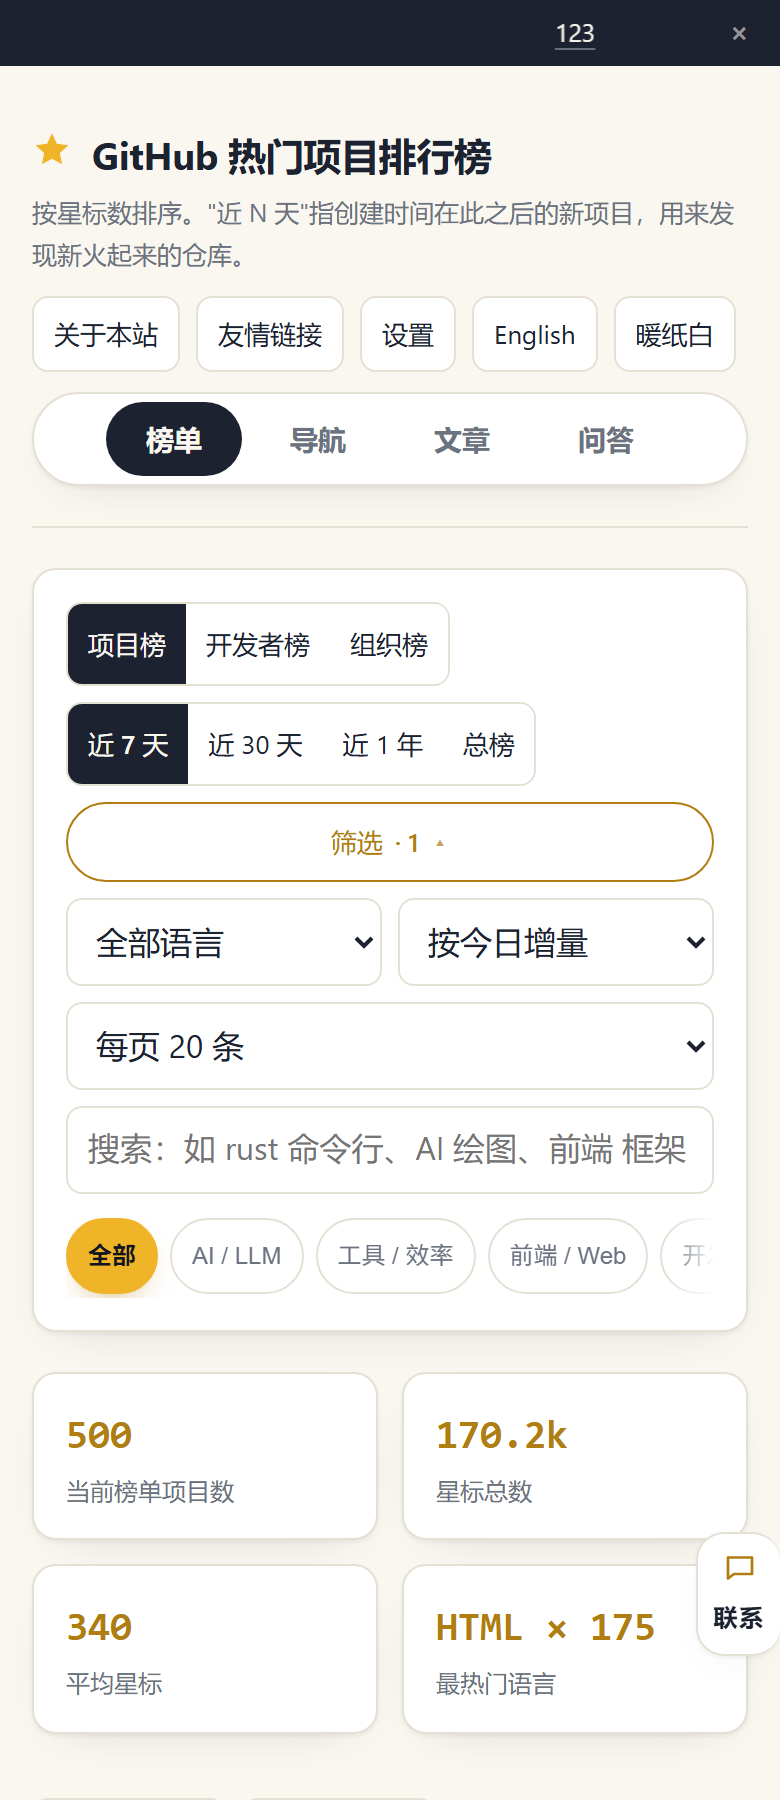
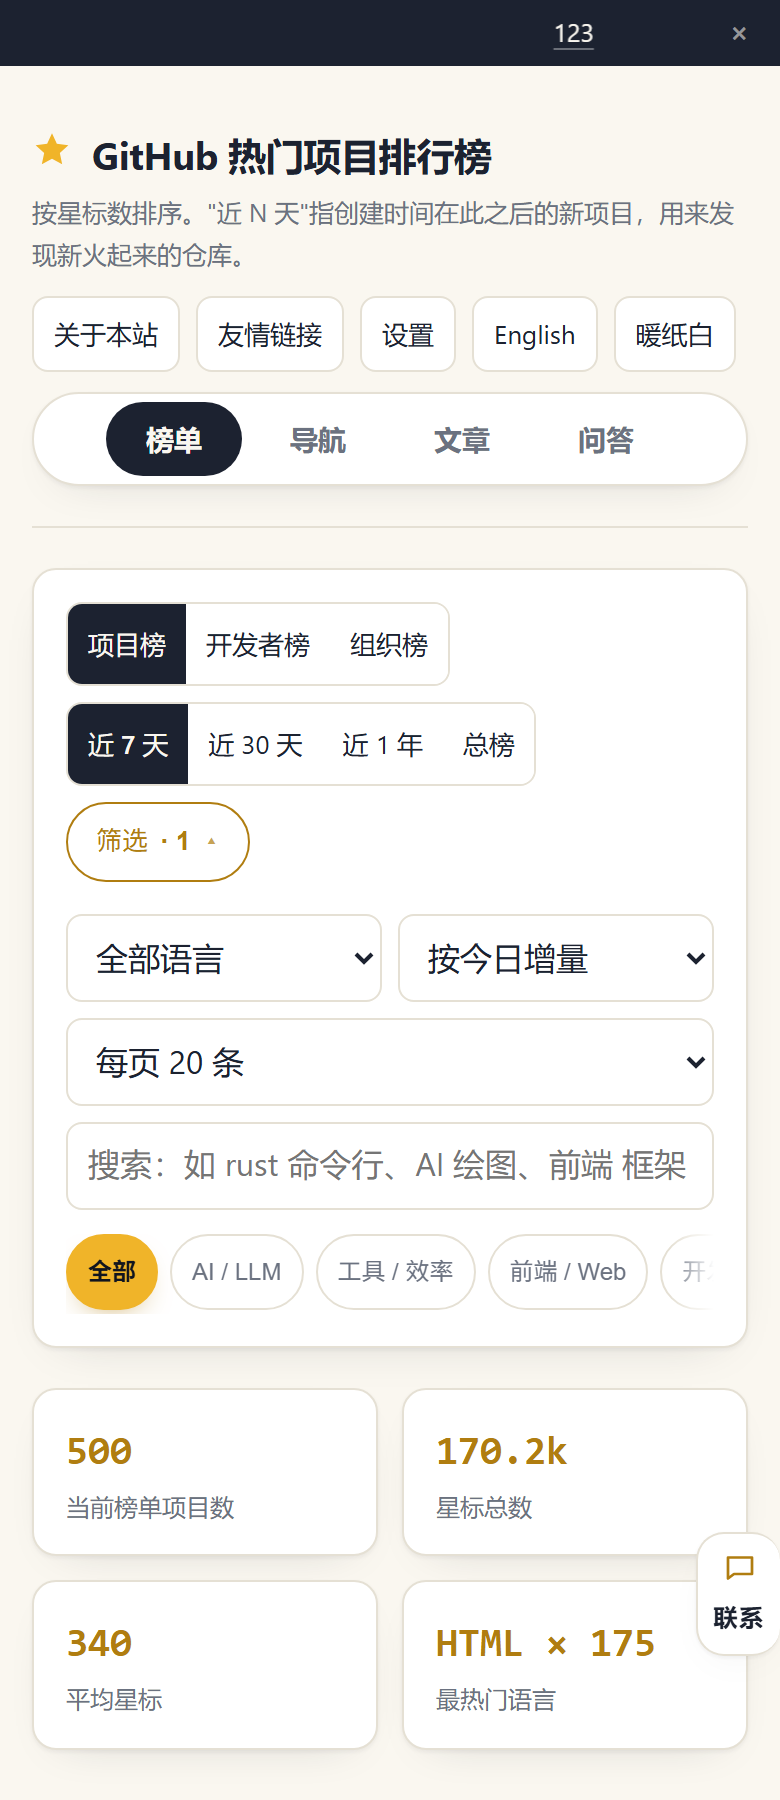
fix: 筛选抽屉改用按钮+div（display:contents 压 details 在 Chrome 不可靠，桌面三个下拉竖排压住搜索框）; v165

diff --git a/index.html b/index.html
@@ -619,25 +619,20 @@ html[data-theme="ink"] meta,html[data-theme="ink"]{color-scheme:dark}
   #pgJump{min-width:64px}
 }
 
-  /* 桌面：抽屉不显形，里面三个下拉仍是 .controls 的行内项 */
-  #rankBar details.morefilters{display:contents}
-  #rankBar details.morefilters>.mf-sum{display:none}
-  #rankBar details.morefilters>.mf-body{display:contents}
+  /* 桌面：面板用 display:contents 压平，三个下拉仍是 .controls 的行内项；按钮不显示 */
+  #rankBar .mf-toggle{display:none}
+  #rankBar .mf-body{display:contents}
 
   /* 分类胶囊：窄屏单行横滚 + 右缘渐隐 */
   @media (max-width:760px){
-    #rankBar details.morefilters{display:block;flex:0 0 auto}
+    #rankBar .mf-toggle{display:inline-flex;align-items:center;justify-content:center;gap:6px;flex:0 0 auto;min-height:40px;padding:8px 14px;border:1px solid var(--border);border-radius:999px;background:var(--card);color:var(--muted);font-size:13px;line-height:1;cursor:pointer}
+    #rankBar .mf-toggle::after{content:"▾";font-size:11px;opacity:.7}
+    #rankBar .mf-toggle[aria-expanded="true"]{color:var(--accent);border-color:var(--accent)}
+    #rankBar .mf-toggle[aria-expanded="true"]::after{content:"▴"}
     #rankBar #q{flex:1 1 120px;min-width:0;max-width:100%}
-    #rankBar details.morefilters>.mf-sum{display:flex;align-items:center;justify-content:center;gap:6px;min-height:40px;padding:8px 14px;border:1px solid var(--border);border-radius:999px;background:var(--card);color:var(--muted);font-size:13px;line-height:1;cursor:pointer;list-style:none}
-    #rankBar details.morefilters>.mf-sum::-webkit-details-marker{display:none}
-    #rankBar details.morefilters>.mf-sum{list-style:none}
-    #rankBar details.morefilters>.mf-sum::after{content:"▾";font-size:11px;opacity:.7}
-    #rankBar details[open].morefilters{flex:1 1 100%}
-    #rankBar details[open].morefilters>.mf-sum{color:var(--accent);border-color:var(--accent)}
-    #rankBar details[open].morefilters>.mf-sum::after{content:"▴"}
-    #rankBar details.morefilters>.mf-body{display:none}
-    #rankBar details[open].morefilters>.mf-body{display:flex;flex-wrap:wrap;gap:8px;margin-top:8px}
-    #rankBar details.morefilters>.mf-body>select{flex:1 1 120px;min-width:0;max-width:100%;box-sizing:border-box}
+    #rankBar .mf-body{display:none}
+    #rankBar .mf-body.open{display:flex;flex-wrap:wrap;gap:8px;flex:1 1 100%;margin-top:8px}
+    #rankBar .mf-body.open>select{flex:1 1 120px;min-width:0;max-width:100%;box-sizing:border-box;height:40px}
     .mf-n{color:var(--accent);font-weight:600}
 
     #cats{flex-wrap:nowrap;overflow-x:auto;overflow-y:hidden;padding-bottom:2px;scrollbar-width:none;
@@ -741,24 +736,22 @@ html[data-theme="ink"] meta,html[data-theme="ink"]{color-scheme:dark}
         <button class="btn" data-range="year">近 1 年</button>
         <button class="btn" data-range="total" title="GitHub 全站星标前 500（不分时间）">总榜</button>
       </div>
-      <details class="morefilters repo-only" id="moreFilters">
-        <summary class="mf-sum">筛选<span class="mf-n" id="mfN"></span></summary>
-        <div class="mf-body">
-          <select id="lang" aria-label="语言"></select>
-          <select id="sort" aria-label="排序">
-            <option value="stars">按星标</option>
-            <option value="trend">按今日增量</option>
-            <option value="activity">按活跃度</option>
-            <option value="forks">按 Fork</option>
-            <option value="updated">按最近更新</option>
-          </select>
-          <select id="pageSize" aria-label="每页条数">
-            <option value="20">每页 20 条</option>
-            <option value="50">每页 50 条</option>
-            <option value="100">每页 100 条</option>
-          </select>
-        </div>
-      </details>
+      <button type="button" class="mf-toggle repo-only" id="mfToggle" aria-expanded="false" aria-controls="mfBody">筛选<span class="mf-n" id="mfN"></span></button>
+      <div class="mf-body repo-only" id="mfBody">
+        <select id="lang" aria-label="语言"></select>
+        <select id="sort" aria-label="排序">
+          <option value="stars">按星标</option>
+          <option value="trend">按今日增量</option>
+          <option value="activity">按活跃度</option>
+          <option value="forks">按 Fork</option>
+          <option value="updated">按最近更新</option>
+        </select>
+        <select id="pageSize" aria-label="每页条数">
+          <option value="20">每页 20 条</option>
+          <option value="50">每页 50 条</option>
+          <option value="100">每页 100 条</option>
+        </select>
+      </div>
         <input type="text" id="q" class="grow repo-only" placeholder="搜索：如 rust 命令行、AI 绘图、前端 框架（按 / 快速定位）" aria-label="搜索">
 
     </div>
@@ -1798,8 +1791,16 @@ html[data-theme="ink"] meta,html[data-theme="ink"]{color-scheme:dark}
 </dialog>
 <script>
 (function(){
-  var mf = document.getElementById('moreFilters');
+  var mf = document.getElementById('mfToggle');
+  var mfBody = document.getElementById('mfBody');
   var badgeEl = document.getElementById('mfN');
+  if (mf && mfBody) {
+    mf.addEventListener('click', function(){
+      var open = mfBody.classList.toggle('open');
+      mf.setAttribute('aria-expanded', open ? 'true' : 'false');
+      if (open) badge();
+    });
+  }
   function badge(){
     var c = 0;
     var lang = document.getElementById('lang');

diff --git a/sw.js b/sw.js
@@ -1,5 +1,5 @@
 /* Service Worker：缓存页面外壳（HTML/JS/图标），让离线也能打开；GitHub API 不缓存，由页面自己的 localStorage 管理 */
-const CACHE = 'ghrank-shell-v164';
+const CACHE = 'ghrank-shell-v165';
 const SHELL = ['./', 'index.html', 'js/bundle.js', 'js/md.js', 'manifest.json', 'icon.svg'];
 // 只预缓存 meta（约 2KB）。榜单数据按 range 分文件、由页面按需加载，不再在安装时白下几�?KB
 const DATA = 'data/repos-meta.js';

diff --git a/worker.js b/worker.js
@@ -1630,7 +1630,7 @@ async function injectFaqLd(env, html) {
 
 // 静态资源版本：HTML 里的 /js/*.js 都会被加上 ?v=<这里>，于是能给浏览器一年 immutable；
 // 改了前端就把它 +1（不然用户浏览器会抱着一周的旧 bundle，界面上去点了没反应）
-const ASSET_V = 'v164';
+const ASSET_V = 'v165';
 
 function emptyNav() {
   return { updatedAt: '', groups: [] };

diff --git a/docs/优化建议.md b/docs/优化建议.md
@@ -4537,3 +4537,26 @@ if (pageMark === 'nav' || pageMark === 'articles') sp.set('page', pageMark);
 2. **`details` 收起时宽度等于 summary**：展开后内容从这个小盒子里溢出，一定要显式 `flex:1 1 100%`。
 3. **CDP 换视口后继续在同一会话里 evaluate 会挂起**（`navigate` 把执行上下文换掉，pending 的 `Runtime.evaluate` 永远不回）→ 1440 那段要么新开会话，要么重连。
 4. 统计卡（当前榜单项目数/星标总数/平均星标/最热语言）在手机上仍占 ~300px —— 这轮没动，是下一轮的对象。
+
+### 修订（同批）：别用 `display:contents` 压 `<details>`
+
+第一版把三个下拉包进原生 `<details>`，桌面靠 `display:contents` 把它压平。手机端正常，**桌面端是坏的**：三个下拉竖着排在 x≈574（间距 35px），正好压住搜索框 —— 用户看到的是「语言 / 排序 / 每页」凭空消失。
+
+原因：`<details>` / `<summary>` 在 Chrome 里带 UA 影子树的插槽（slot）机制，对 details 本身设 `display:contents` 并不能可靠地把它的子元素摊到祖父级 flex 容器里（子元素仍在 details 生成的块里按块级排）。
+
+改法：换成「按钮 + 普通 div」：
+
+```html
+<button type="button" class="mf-toggle repo-only" id="mfToggle" aria-expanded="false" aria-controls="mfBody">筛选<span class="mf-n" id="mfN"></span></button>
+<div class="mf-body repo-only" id="mfBody">
+  <select id="lang" …></select>
+  <select id="sort" …></select>
+  <select id="pageSize" …></select>
+</div>
+```
+
+- 桌面：`#rankBar .mf-body{display:contents}`（`div` 上这个属性非常可靠）+ `#rankBar .mf-toggle{display:none}` → 三个下拉回到 `.controls` 里平铺，和改前一模一样（实测 x=574/691/813，同一行）。
+- 窄屏：按钮显示，面板 `display:none`，点按钮加 `.open` 变 `display:flex;flex-wrap:wrap;flex:1 1 100%`。
+- 语义没丢：按钮 + `aria-expanded` + `aria-controls`，键盘可 Tab、可回车。
+
+门禁因此多两条桌面断言：三个下拉必须在**同一行**（`|y-y0| ≤ 2`），且都与搜索框**不重叠**。第一版只断言了「可见 + 宽度正常」，所以才让竖排漏到线上截图里 —— 教训是**桌面端的布局断言必须包含相对位置**，光看「有没有」不够。
